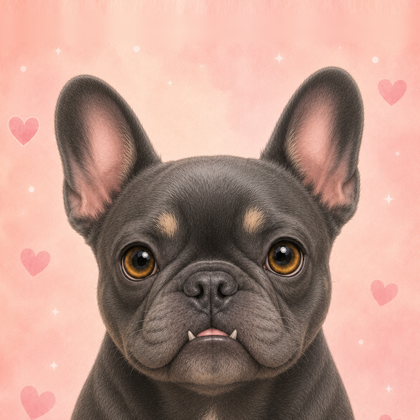
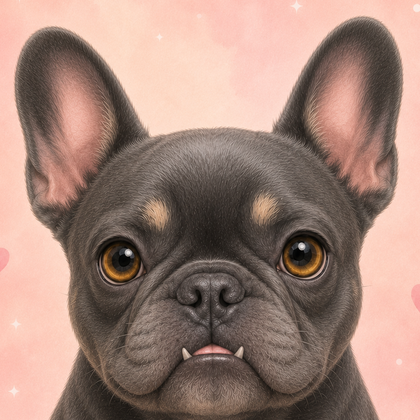
Align dog portrait crops in Dogs tile so eyes sit at the same height
Misa, Coco, and Juno's portraits were each cropped independently by
eye, so their faces landed at noticeably different vertical positions
within the circles. Recropped all three so eye level lands at the
same ratio in the frame.

Used separate -dogtile image files for Misa and Coco instead of
overwriting the shared portrait files, since those are also used in
the header mascot (Misa) and Pets page (Misa, Coco) with their own
previously-tuned framing that shouldn't change.

diff --git a/src/widgets/DogsCare.tsx b/src/widgets/DogsCare.tsx
@@ -35,8 +35,8 @@ const DEFAULT_DOGS: DogCare[] = [
 const NAME_MIGRATIONS: Record<string, string> = { Frenchie: 'Misa', Maltipoo: 'Coco' }
 
 const PORTRAITS: Record<string, string> = {
-  Misa: '/Dashboard-5/images/misa-portrait.png',
-  Coco: '/Dashboard-5/images/coco-portrait.png',
+  Misa: '/Dashboard-5/images/misa-dogtile.png',
+  Coco: '/Dashboard-5/images/coco-dogtile.png',
   Juno: '/Dashboard-5/images/juno-portrait.png',
 }
 
